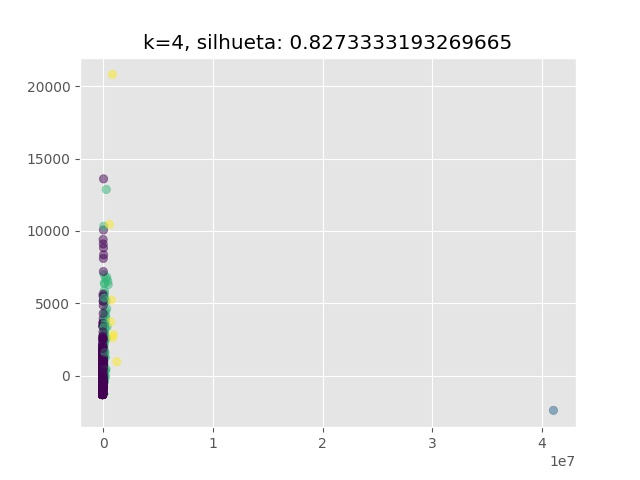
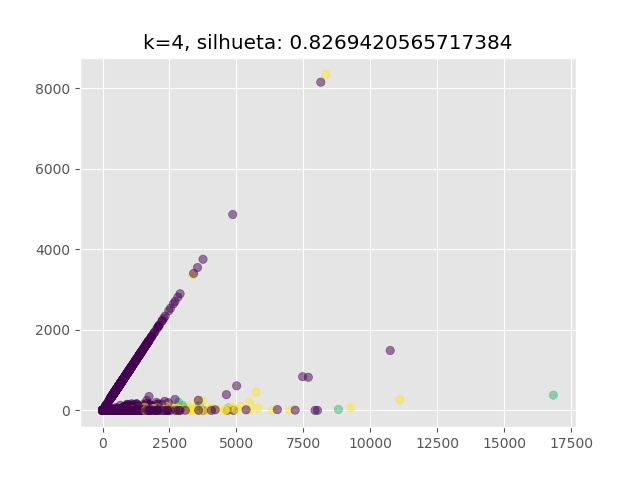
plotagem removida

diff --git a/prod/python/clusters.py b/prod/python/clusters.py
@@ -9,25 +9,19 @@ import sys
 import argparse
 
 
-def train_profile_clustering(csv_path, k=4, crop=None):
+def train_profile_clustering(csv_path, k=4):
     df = pd.read_csv(csv_path)
 
-    if crop is not None:
-        df = df[(df["faturamento_total"] > crop[0]) & (df["faturamento_total"] < crop[1])]
+    subset = df[["produtos_vendidos", "transacoes_total", "faturamento_total", "periodo_0", "periodo_1",
+                 "periodo_2", "periodo_3", "periodo_4"]].dropna()
 
-    df.dropna(subset=["produtos_vendidos", "transacoes_total", "faturamento_total", "periodo_0", "periodo_1", "periodo_2", "periodo_3", "periodo_4"], inplace=True)
-    subset = df[["produtos_vendidos", "transacoes_total", "faturamento_total"]]
-    X = np.column_stack([subset["produtos_vendidos"], subset["transacoes_total"], subset["faturamento_total"]])
+    X = np.column_stack([subset["produtos_vendidos"], subset["transacoes_total"],
+                         subset["faturamento_total"], subset["periodo_0"], subset["periodo_1"],
+                         subset["periodo_2"], subset["periodo_3"], subset["periodo_4"]])
+
     km = KMeans(n_clusters=k, random_state=7)
     km.fit(X)
     joblib.dump(km, "models/km_profile.pkl")
-    pred = km.predict(X)
-    reduced = PCA(n_components=2).fit_transform(X)
-    plt.style.use("ggplot")
-    plt.scatter(reduced[:, 0], reduced[:, 1], c=pred, alpha=0.5)
-    score = metrics.silhouette_score(X, pred)
-    plt.title("k=%s, silhueta: %s" % (k, score))
-    plt.savefig("plots/last_trained_profile_cluster.jpg")
 
 
 def load_profile_clustering():
@@ -41,31 +35,40 @@ def evaluate_model(model, csv_path, crop=None):
     if crop is not None:
         df = df[(df["faturamento_total"] > crop[0]) & (df["faturamento_total"] < crop[1])]
 
-    df.dropna(subset=["produtos_vendidos", "transacoes_total", "faturamento_total"], inplace=True)
-    subset = df[["produtos_vendidos", "transacoes_total", "faturamento_total"]]
-    X = np.column_stack([subset["produtos_vendidos"], subset["transacoes_total"], subset["faturamento_total"]])
+    subset = df[["produtos_vendidos", "transacoes_total", "faturamento_total", "periodo_0", "periodo_1",
+                 "periodo_2", "periodo_3", "periodo_4"]].dropna()
+
+    X = np.column_stack([subset["produtos_vendidos"], subset["transacoes_total"],
+                         subset["faturamento_total"], subset["periodo_0"], subset["periodo_1"],
+                         subset["periodo_2"], subset["periodo_3"], subset["periodo_4"]])
+
     pred = model.predict(X)
     df["cluster"] = pred
     df["ticket_medio"] = df["faturamento_total"] / df["transacoes_total"]
 
-    clusters_features = pd.DataFrame(columns=["faturamento_medio", "ticket_medio", "trans_medio"])
+    periodos = PCA(n_components=1).fit_transform(np.column_stack([subset["periodo_1"], subset["periodo_2"], subset["periodo_3"], subset["periodo_4"]]))
+    df["periodos"] = periodos
+
+    clusters_features = pd.DataFrame(columns=["faturamento_medio", "ticket_medio", "trans_medio", "sazonalidade_diaria"])
     for i in range(0, len(df["cluster"].value_counts())):
         clusters_features = clusters_features.append({
             "faturamento_medio": df[df["cluster"] == i].faturamento_total.mean(),
             "ticket_medio": df[df["cluster"] == i].ticket_medio.mean(),
-            "trans_medio": df[df["cluster"] == i].transacoes_total.mean()
+            "trans_medio": df[df["cluster"] == i].transacoes_total.mean(),
+            "sazonalidade_diaria": df[df["cluster"] == i].periodos.mean()
         }, ignore_index=True)
 
     m_score = metrics.silhouette_score(X, pred)
     cluster_norm = clusters_features / clusters_features.sum()
-    print(m_score)
+    print("silhouette_score: %s" % m_score)
     print(cluster_norm.std())
     return np.array(cluster_norm.std() * m_score)
 
 
 def consume(df):
     model = load_profile_clustering()
-    X = np.column_stack([df["produtos_vendidos"], df["transacoes_total"], df["faturamento_total"]])
+    X = np.column_stack([df["produtos_vendidos"], df["transacoes_total"], df["faturamento_total"],
+                         df["periodo_0"],df["periodo_1"],df["periodo_2"],df["periodo_3"],df["periodo_4"]])
     pred = model.predict(X)
     return pred
 
@@ -83,7 +86,7 @@ if __name__ == "__main__":
     args = parser.parse_args()
 
     if args.train_path is not None:
-        train_profile_clustering(args.train_path, args.k, args.crop)
+        train_profile_clustering(args.train_path, args.k)
         print("modelo treinado.")
     elif args.eval_path is not None:
         model_score = evaluate_model(load_profile_clustering(), args.eval_path, args.crop)
